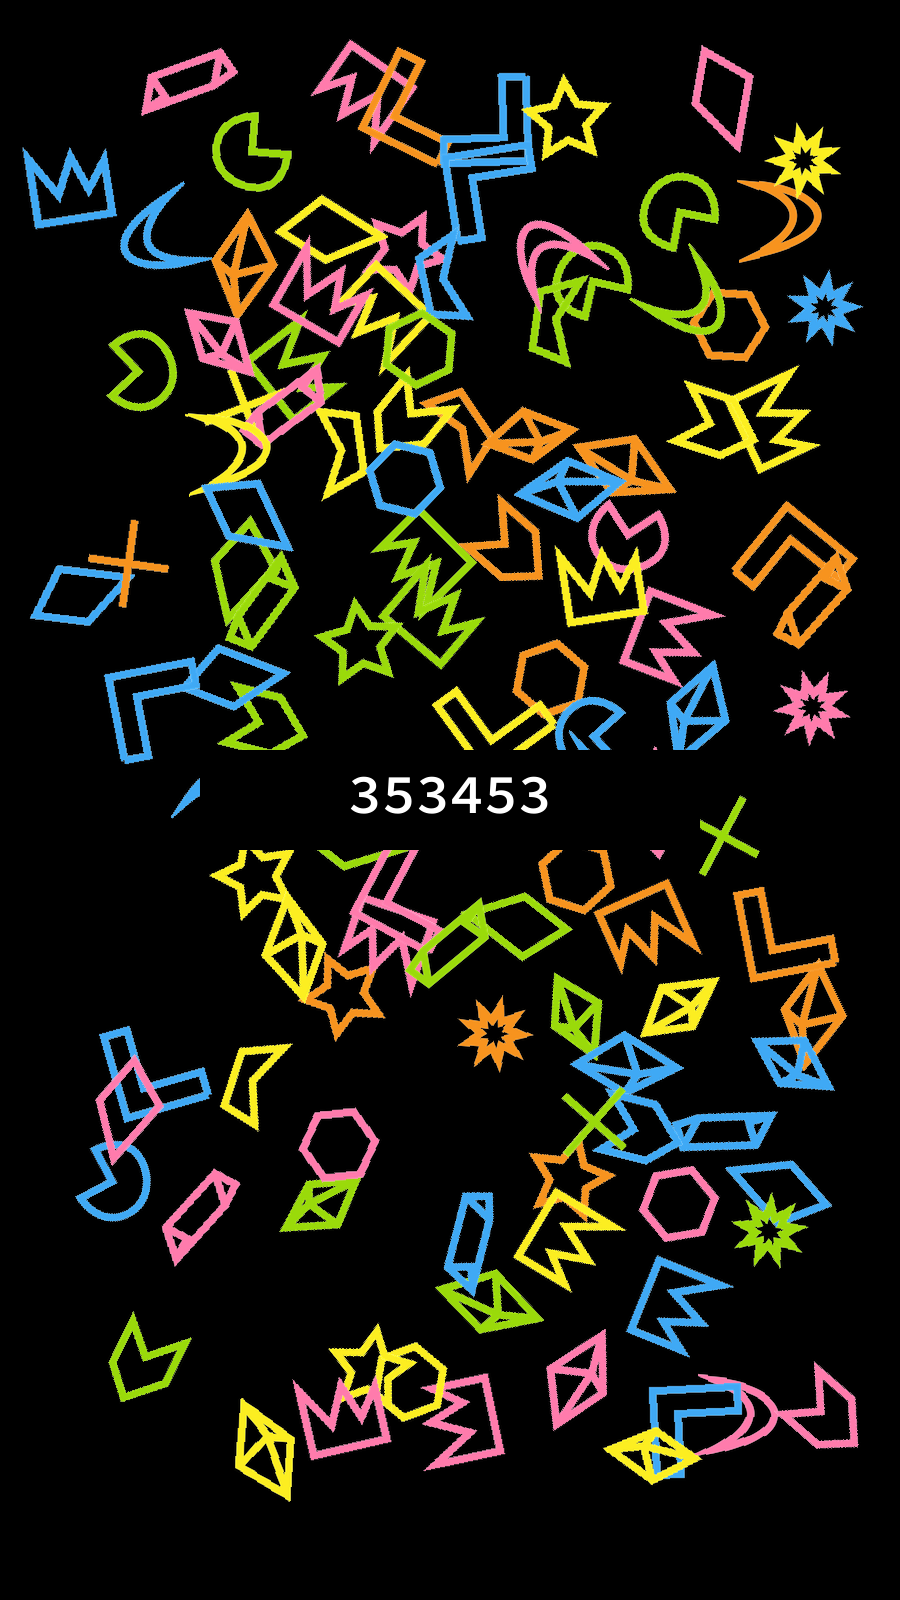
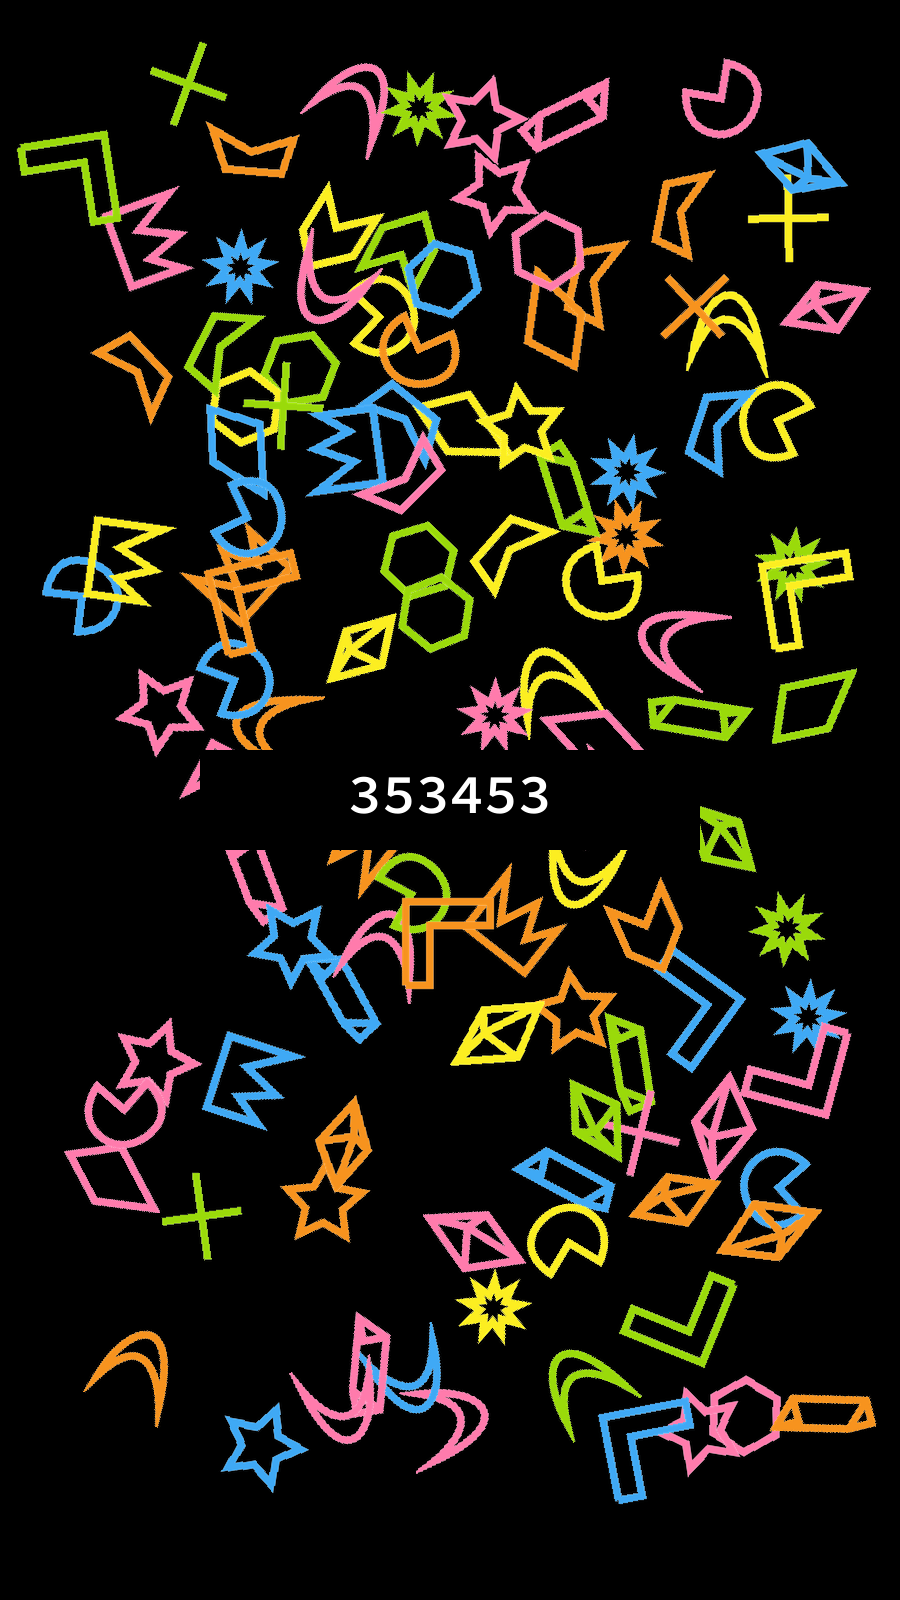
optimized speed using resize_image script

Changed region(s): [[0.0, 0.0, 0.9644, 0.5312], [0.0622, 0.5, 0.9956, 0.9375], [0.3111, 0.6875, 0.4356, 0.7812]]

diff --git a/Flamclubalgo.py b/Flamclubalgo.py
@@ -32,45 +32,9 @@ def generate_black_code_image(W,H,code,font_size=36,font_type="f.ttf"):
 def generate_image(seed,foldername,code,codeW=500,codeH=100,width=900,height=1600,m=100,k=200,baseheight=100,th=50,Density=200,font_size=56,font_type="f.ttf"):
     print("Starting FlamClub Algo................................")
     print("Default value of width == 900....\nDefault value of height == 1600....\nDefault value of margin in width == 200....\nDefault value of margin in height == 100....\nDefault value of doodle height == 100....\nDefault value of distance b/w doodle == 50....\nDefault value of density of doodles == 200....\n")
-    images = load_images_from_folder(foldername)
+    
+    res_images = load_images_from_folder(foldername+"resized")
 
-
-
-    # while True:
-    #     foldername = input("Please enter folder path that contains the doodles")
-    #     if foldername: break
-
-
-
-    # width = int( input("Enter height of Document") or 900)
-    # height = int( input("Enter width of Document") or 1600)
-    # m =int( input("Enter margin in height of Document") or 100)
-    # k =int( input("Enter margin in width of Document") or 200)
-    # baseheight = int( input("Enter height of doodle") or 100)
-    # # r = 5
-    # while True:
-    #     seed = input('Please Enter seed')
-    #     if seed: break
-    # th = int( input("Enter the distance between doodles") or 50)
-    # Density = int( input("Enter density of doodles") or 200)
-
-
-    res_images = []
-    for img in images:
-        if img.size[0]>img.size[1]:
-            wpercent = (baseheight/float(img.size[0]))
-            hsize = int((float(img.size[1])*float(wpercent)))
-            a = baseheight
-        else:
-            hsize = baseheight
-            wpercent = (baseheight/float(img.size[1]))
-            a = int((float(img.size[0])*float(wpercent)))
-        try:
-            img = img.resize((a,hsize), Image.ANTIALIAS)
-            # print(img.size[0])
-            res_images.append(img)
-        except Exception as e:
-            print(e)
 
     points =[]
 
@@ -104,7 +68,6 @@ def generate_image(seed,foldername,code,codeW=500,codeH=100,width=900,height=160
         b = 0.8+ (random.random())/2
         var = random.randint(0,len(res_images)-1)
         puti = res_images[var]
-        img = img.resize((int(puti.size[0]*b),int(puti.size[1]*b)), Image.ANTIALIAS)
         puti = puti.rotate(a, PIL.Image.NEAREST, expand = 1)
         new_image.paste(puti, i,puti)
 
@@ -120,4 +83,4 @@ def generate_image(seed,foldername,code,codeW=500,codeH=100,width=900,height=160
 
     new_image.save("New{}{}{}.png".format(seed,th,baseheight))
 
-generate_image(123123123,"shapes2",353453)
+generate_image(23466154,"shapes2",353453)

diff --git a/resize_images.py b/resize_images.py
@@ -1,0 +1,40 @@
+import os
+from PIL import Image, ImageDraw, ImageFont
+import PIL
+
+def load_images_from_folder(folder):
+    images = []
+    for filename in os.listdir(folder):
+        try:
+            img = Image.open(os.path.join(folder,filename))
+        except Exception as e:
+            print(e)
+        if img is not None:
+            images.append(img)
+    print("images Loaded from folder")
+    return images
+
+def generate_res_images(foldername,baseheight=100):
+
+    images = load_images_from_folder(foldername)
+    res_images_temp = []
+    i=0
+    # os.makedirs(foldername+"resized")
+    for img in images:
+        if img.size[0]>img.size[1]:
+            wpercent = (baseheight/float(img.size[0]))
+            hsize = int((float(img.size[1])*float(wpercent)))
+            a = baseheight
+        else:
+            hsize = baseheight
+            wpercent = (baseheight/float(img.size[1]))
+            a = int((float(img.size[0])*float(wpercent)))
+        try:
+            i+=1
+            img = img.resize((a,hsize), Image.ANTIALIAS)
+            # print(img.size[0])
+            res_images_temp.append(img)
+            img.save(foldername+"resized" + "/"+"{}_doodle_resized".format(i)+".png")
+        except Exception as e:
+            print(e)
+generate_res_images("shapes2")
